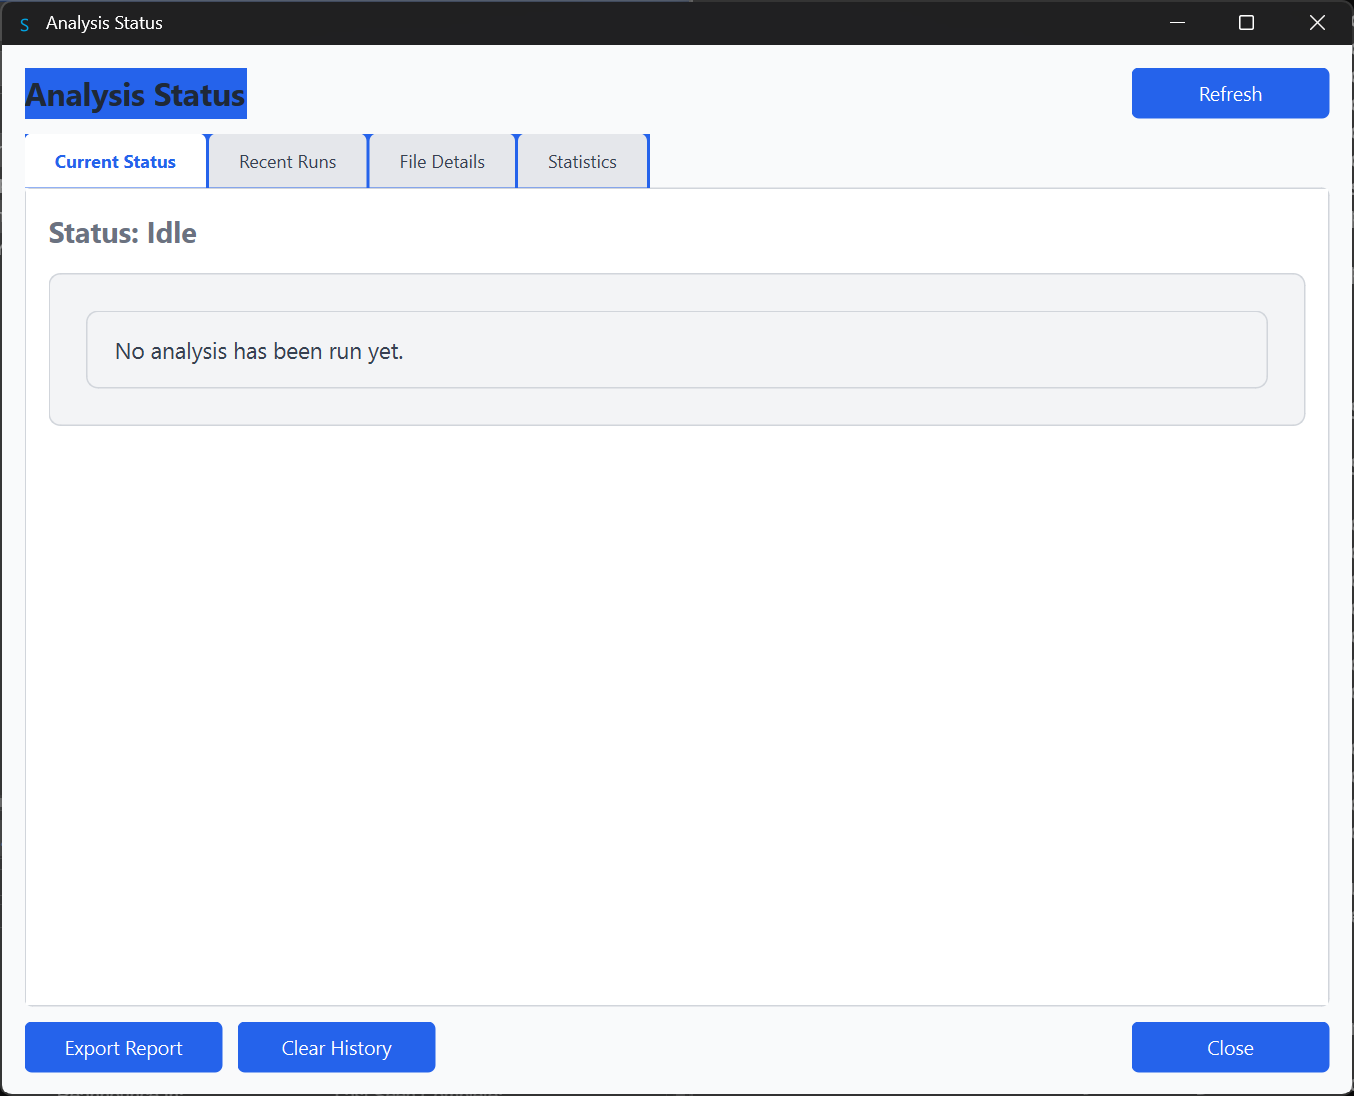
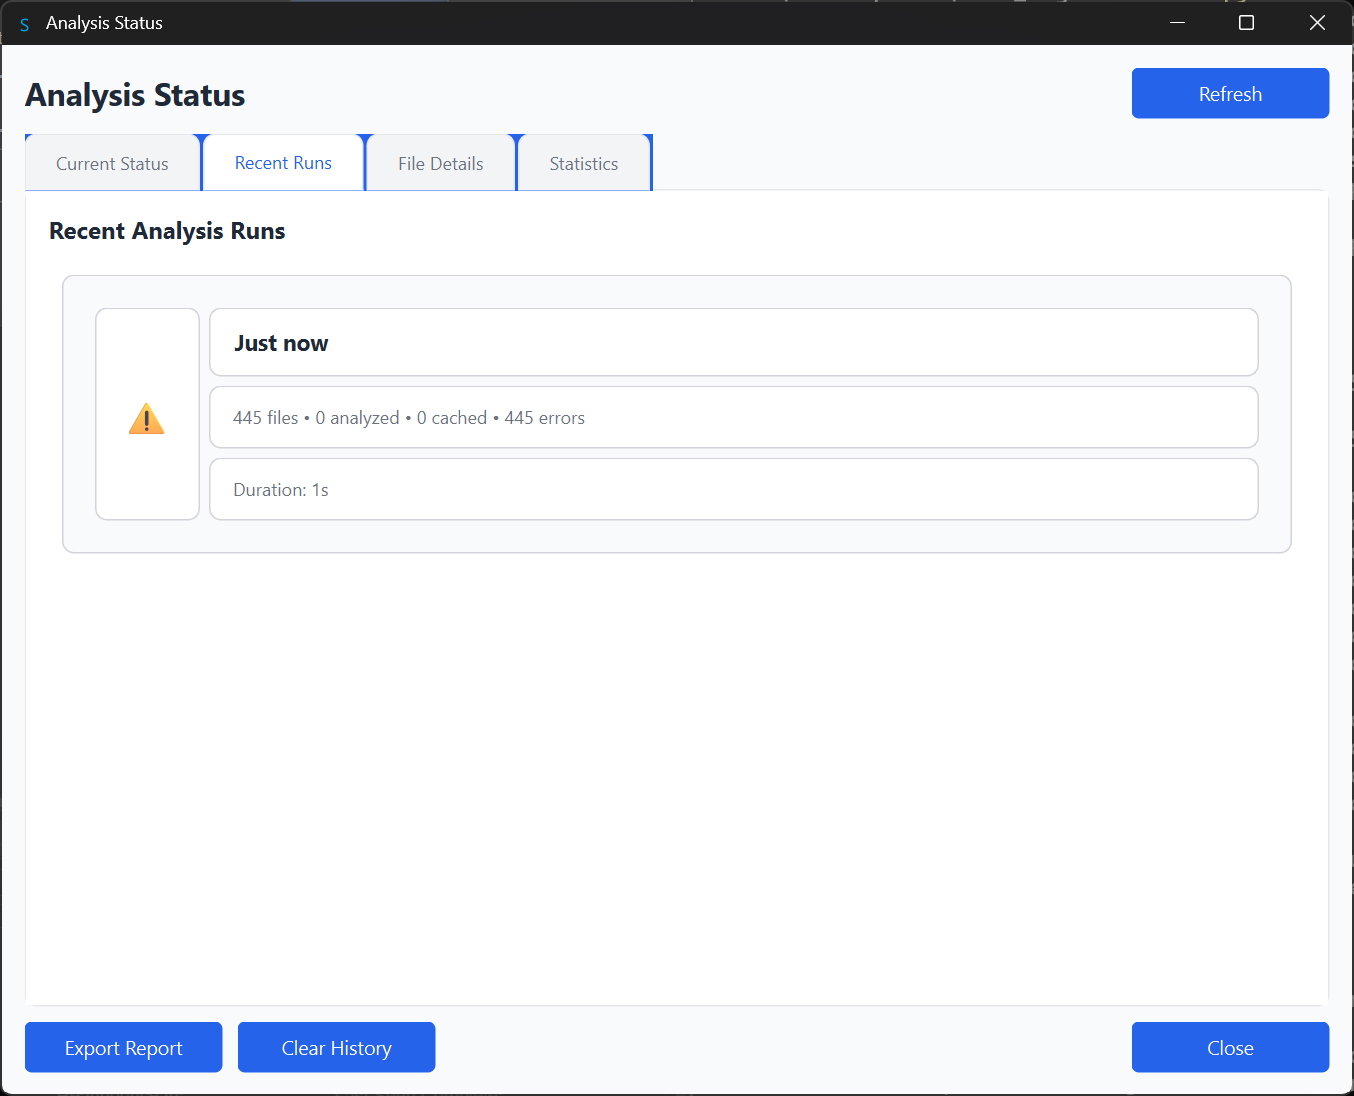
feat: add clickable error details in Analysis Status window
- Recent Runs tab: Click on any run to view detailed error list
- Added hint text 'Click to view error details →' for failed runs
- File Details tab now shows failed files from recent run
- Failed files display error messages in Details column
- Error details dialog shows all failed files with full error messages
- Updated table header from 'Confidence' to 'Details' to reflect dual purpose

diff --git a/src/analysis_status_window.py b/src/analysis_status_window.py
@@ -15,6 +15,7 @@ from typing import Optional, Dict, List, Any
 from datetime import datetime, timedelta
 from analysis_db import AnalysisDB
 import json
+import os
 
 
 class AnalysisStatusWindow(QDialog):
@@ -281,7 +282,7 @@ class AnalysisStatusWindow(QDialog):
         # Table
         self.files_table = QTableWidget()
         self.files_table.setColumnCount(4)
-        self.files_table.setHorizontalHeaderLabels(["File", "Status", "Confidence", "Date"])
+        self.files_table.setHorizontalHeaderLabels(["File", "Status", "Details", "Date"])
         self.files_table.horizontalHeader().setStretchLastSection(False)
         self.files_table.horizontalHeader().setSectionResizeMode(0, QHeaderView.ResizeMode.Stretch)
         self.files_table.horizontalHeader().setSectionResizeMode(1, QHeaderView.ResizeMode.Fixed)
@@ -419,12 +420,30 @@ class AnalysisStatusWindow(QDialog):
             self.runs_layout.insertWidget(0, no_data)
 
     def _refresh_file_details(self):
-        """Refresh File Details tab"""
+        """Refresh File Details tab - show both successful and failed analyses"""
         self.files_table.setRowCount(0)
 
+        # Get successfully analyzed files
         files = self.analysis_db.get_analyzed_pages()
 
-        self.all_files = files  # Store for filtering
+        # Get recent runs to find failed files
+        recent_runs = self.analysis_db.get_recent_runs(limit=1)
+        failed_files = []
+
+        if recent_runs and recent_runs[0].get('errors', 0) > 0:
+            # Get errors from most recent run
+            errors = self.analysis_db.get_run_errors(recent_runs[0]['run_id'])
+            for error in errors:
+                failed_files.append({
+                    'file_path': error['file_path'],
+                    'status': 'Failed',
+                    'error_message': error.get('error_message', 'Unknown error'),
+                    'error_at': error.get('error_at'),
+                    'analyzed_at': error.get('error_at')
+                })
+
+        # Combine successful and failed files
+        self.all_files = files + failed_files  # Store for filtering
         self._apply_file_filter()
 
     def _refresh_statistics(self):
@@ -473,12 +492,17 @@ Average Time per Page: {stats['avg_processing_time_ms']/1000:.1f} seconds"""
 
         filtered_files = []
         for file_data in self.all_files:
+            # Determine file status
+            is_failed = file_data.get('status') == 'Failed'
+            is_cached = file_data.get('is_cached', False)
+            is_analyzed = not is_failed and not is_cached
+
             # Apply type filter
-            if filter_type == "Analyzed" and file_data.get('is_cached', False):
+            if filter_type == "Analyzed" and not is_analyzed:
                 continue
-            elif filter_type == "Cached" and not file_data.get('is_cached', False):
+            elif filter_type == "Cached" and not is_cached:
                 continue
-            elif filter_type == "Failed" and (file_data.get('confidence_score', 1.0) or 1.0) >= 0.3:
+            elif filter_type == "Failed" and not is_failed:
                 continue
 
             # Apply search filter
@@ -492,16 +516,18 @@ Average Time per Page: {stats['avg_processing_time_ms']/1000:.1f} seconds"""
 
         for row, file_data in enumerate(filtered_files):
             # File name
-            file_item = QTableWidgetItem(file_data['file_path'].split('\\')[-1])
+            file_item = QTableWidgetItem(os.path.basename(file_data['file_path']))
+            file_item.setToolTip(file_data['file_path'])  # Full path in tooltip
+            file_item.setData(Qt.ItemDataRole.UserRole, file_data)  # Store data for details
             self.files_table.setItem(row, 0, file_item)
 
             # Status
-            if file_data.get('is_cached', False):
-                status = "⚡ Cached"
-                color = QColor("#6B7280")
-            elif (file_data.get('confidence_score') or 1.0) < 0.3:
+            if file_data.get('status') == 'Failed':
                 status = "❌ Failed"
                 color = QColor("#DC2626")
+            elif file_data.get('is_cached', False):
+                status = "⚡ Cached"
+                color = QColor("#6B7280")
             else:
                 status = "✓ Analyzed"
                 color = QColor("#059669")
@@ -510,13 +536,24 @@ Average Time per Page: {stats['avg_processing_time_ms']/1000:.1f} seconds"""
             status_item.setForeground(color)
             self.files_table.setItem(row, 1, status_item)
 
-            # Confidence
-            confidence = file_data.get('confidence_score')
-            if confidence is not None:
-                conf_text = f"{confidence*100:.0f}%"
+            # Confidence (or error message for failed files)
+            if file_data.get('status') == 'Failed':
+                error_msg = file_data.get('error_message', 'Unknown error')
+                # Truncate long error messages
+                if len(error_msg) > 50:
+                    conf_text = error_msg[:47] + "..."
+                else:
+                    conf_text = error_msg
+                conf_item = QTableWidgetItem(conf_text)
+                conf_item.setToolTip(error_msg)  # Full error in tooltip
+                conf_item.setForeground(QColor("#DC2626"))
             else:
-                conf_text = "--"
-            conf_item = QTableWidgetItem(conf_text)
+                confidence = file_data.get('confidence_score')
+                if confidence is not None:
+                    conf_text = f"{confidence*100:.0f}%"
+                else:
+                    conf_text = "--"
+                conf_item = QTableWidgetItem(conf_text)
             self.files_table.setItem(row, 2, conf_item)
 
             # Date
@@ -537,6 +574,7 @@ Average Time per Page: {stats['avg_processing_time_ms']/1000:.1f} seconds"""
     def _create_run_widget(self, run: Dict[str, Any]) -> QWidget:
         """Create widget for a single run"""
         widget = QFrame()
+        widget.setCursor(Qt.CursorShape.PointingHandCursor)
         widget.setStyleSheet("""
             QFrame {
                 background-color: white;
@@ -546,8 +584,12 @@ Average Time per Page: {stats['avg_processing_time_ms']/1000:.1f} seconds"""
             }
             QFrame:hover {
                 background-color: #F9FAFB;
+                border-color: #2563EB;
             }
         """)
+
+        # Make widget clickable to show error details
+        widget.mousePressEvent = lambda event: self._show_run_errors(run)
 
         layout = QHBoxLayout(widget)
 
@@ -573,9 +615,15 @@ Average Time per Page: {stats['avg_processing_time_ms']/1000:.1f} seconds"""
         details.setStyleSheet("color: #6B7280; font-size: 9pt;")
         info_layout.addWidget(details)
 
-        duration = QLabel(f"Duration: {self._format_duration(run['duration_seconds'])}")
-        duration.setStyleSheet("color: #6B7280; font-size: 9pt;")
-        info_layout.addWidget(duration)
+        duration_text = QLabel(f"Duration: {self._format_duration(run['duration_seconds'])}")
+        duration_text.setStyleSheet("color: #6B7280; font-size: 9pt;")
+        info_layout.addWidget(duration_text)
+
+        # Hint to click for error details
+        if run['errors'] > 0:
+            hint = QLabel("Click to view error details →")
+            hint.setStyleSheet("color: #2563EB; font-size: 9pt; font-style: italic;")
+            info_layout.addWidget(hint)
 
         layout.addLayout(info_layout, 1)
 
@@ -612,6 +660,72 @@ Average Time per Page: {stats['avg_processing_time_ms']/1000:.1f} seconds"""
         layout.addWidget(bar)
 
         return widget
+
+    def _show_run_errors(self, run: Dict[str, Any]):
+        """Show error details for a run"""
+        if run['errors'] == 0:
+            QMessageBox.information(
+                self,
+                "No Errors",
+                f"This run completed successfully with no errors.\n\n"
+                f"Analyzed: {run['analyzed']}\nCached: {run['cached']}"
+            )
+            return
+
+        # Get errors for this run
+        errors = self.analysis_db.get_run_errors(run['run_id'])
+
+        if not errors:
+            QMessageBox.warning(
+                self,
+                "No Error Details",
+                f"This run had {run['errors']} errors, but error details are not available."
+            )
+            return
+
+        # Create error details dialog
+        dialog = QDialog(self)
+        dialog.setWindowTitle(f"Error Details - {run['run_id']}")
+        dialog.setMinimumSize(800, 600)
+
+        layout = QVBoxLayout(dialog)
+
+        # Header
+        header = QLabel(f"{run['errors']} errors from analysis run")
+        header.setStyleSheet("font-size: 14pt; font-weight: bold; padding: 10px;")
+        layout.addWidget(header)
+
+        # Error table
+        error_table = QTableWidget()
+        error_table.setColumnCount(2)
+        error_table.setHorizontalHeaderLabels(["File", "Error Message"])
+        error_table.horizontalHeader().setStretchLastSection(True)
+        error_table.horizontalHeader().setSectionResizeMode(0, QHeaderView.ResizeMode.Interactive)
+        error_table.setColumnWidth(0, 300)
+        error_table.setSelectionBehavior(QAbstractItemView.SelectionBehavior.SelectRows)
+        error_table.setEditTriggers(QAbstractItemView.EditTrigger.NoEditTriggers)
+
+        error_table.setRowCount(len(errors))
+        for i, error in enumerate(errors):
+            # File path (basename only)
+            file_item = QTableWidgetItem(os.path.basename(error['file_path']))
+            file_item.setToolTip(error['file_path'])  # Full path in tooltip
+            error_table.setItem(i, 0, file_item)
+
+            # Error message
+            error_msg = error.get('error_message', 'Unknown error')
+            error_item = QTableWidgetItem(error_msg)
+            error_item.setToolTip(error_msg)  # Full message in tooltip
+            error_table.setItem(i, 1, error_item)
+
+        layout.addWidget(error_table)
+
+        # Close button
+        close_button = QPushButton("Close")
+        close_button.clicked.connect(dialog.accept)
+        layout.addWidget(close_button)
+
+        dialog.exec()
 
     def _show_file_details(self, index):
         """Show detailed file analysis dialog"""
